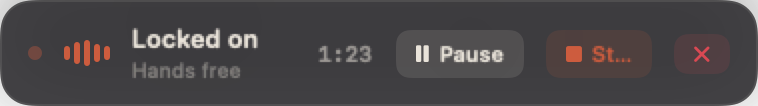
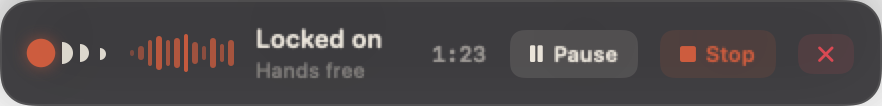
The mark is the recording indicator; the meter shows what the mic hears
The separate status dot is gone. While recording, the Ember disc of the
mark itself pulses as the recording light and the three crescents drift
gently side to side, air carrying the sound. Paused, everything settles
and dims.

The five decorative bars become a real meter: a rolling window of the
last twelve mic levels, newest at the right, with a power curve that
lifts quiet speech into view while true silence stays flat on the
floor. Hearing something and hearing nothing now look unmistakably
different, like the system's own mic test.

Button labels are incompressible; Stop no longer truncates.

diff --git a/Sources/HUD.swift b/Sources/HUD.swift
@@ -63,6 +63,78 @@ private struct Pill: View {
     }
 }
 
+/// The mark itself is the live indicator while recording: the Ember disc is
+/// the recording light, pulsing, and the crescents drift gently left and
+/// right like air carrying the sound. Paused, everything settles and dims.
+private struct AnimatedMark: View {
+    var paused: Bool
+
+    private struct HalfDisc: Shape {
+        func path(in rect: CGRect) -> Path {
+            var p = Path()
+            p.move(to: CGPoint(x: rect.minX, y: rect.minY))
+            p.addArc(center: CGPoint(x: rect.minX, y: rect.midY),
+                     radius: rect.height / 2,
+                     startAngle: .degrees(-90), endAngle: .degrees(90), clockwise: false)
+            p.closeSubpath()
+            return p
+        }
+    }
+
+    private func pulse(_ t: Double) -> CGFloat {
+        if paused { return 1 }
+        let wave: Double = 0.5 + 0.5 * sin(t * 2 * Double.pi / 1.2)
+        return CGFloat(1.0 + 0.10 * wave)
+    }
+    private func drift(_ t: Double, _ i: Int) -> CGFloat {
+        if paused { return 0 }
+        let period: Double = 1.5 + Double(i) * 0.25
+        let phase: Double = Double(i) * 1.9
+        return CGFloat(sin(t * 2 * Double.pi / period + phase) * 1.3)
+    }
+    private static let heights: [CGFloat] = [11, 8.5, 6]
+
+    var body: some View {
+        TimelineView(.animation(minimumInterval: 1.0 / 30.0, paused: paused)) { ctx in
+            let t: Double = ctx.date.timeIntervalSinceReferenceDate
+            HStack(alignment: .center, spacing: 3) {
+                Circle()
+                    .fill(T.accent)
+                    .frame(width: 13, height: 13)
+                    .scaleEffect(pulse(t))
+                    .shadow(color: T.accent.opacity(paused ? 0 : 0.5), radius: 3.5 * pulse(t))
+                ForEach(0..<3, id: \.self) { i in
+                    HalfDisc()
+                        .fill(T.sand.opacity(paused ? 0.4 : 0.92))
+                        .frame(width: Self.heights[i] / 2 + 1.5, height: Self.heights[i])
+                        .offset(x: drift(t, i))
+                }
+            }
+            .opacity(paused ? 0.75 : 1)
+        }
+        .frame(height: 16)
+        .accessibilityLabel(paused ? "Paused" : "Recording")
+    }
+}
+
+/// A real level meter: the rolling history of what the microphone heard,
+/// newest at the right. Silence reads flat; speech reads as movement.
+private struct LiveMeter: View {
+    let levels: [Float]
+    var dimmed: Bool = false
+    var body: some View {
+        HStack(alignment: .center, spacing: 2) {
+            ForEach(Array(levels.enumerated()), id: \.offset) { _, v in
+                Capsule(style: .continuous)
+                    .fill(T.accent.opacity(dimmed ? 0.22 : 0.35 + 0.65 * Double(min(1, v))))
+                    .frame(width: 2.5, height: max(2.5, CGFloat(min(1, v)) * 22))
+            }
+        }
+        .frame(height: 22)
+        .animation(.linear(duration: 0.08), value: levels)
+    }
+}
+
 /// Five bars that ride the mic level, with a gentle idle shimmer so it never looks dead.
 private struct Meter: View {
     let level: Float
@@ -119,7 +191,7 @@ private struct CtlButton: View {
         Button(action: action) {
             HStack(spacing: 4) {
                 Image(systemName: system).font(.system(size: 9.5, weight: .bold))
-                if !label.isEmpty { Text(label).font(T.ui(11, .semibold)) }
+                if !label.isEmpty { Text(label).font(T.ui(11, .semibold)).fixedSize() }
             }
             .foregroundColor(tone)
             .padding(.horizontal, 9).padding(.vertical, 5)
@@ -159,7 +231,7 @@ struct HUDView: View {
 
     var body: some View {
         HStack(spacing: 11) {
-            BrandMark()
+            if case .recording = state.phase {} else { BrandMark() }
             content
         }
         .padding(.horizontal, 14)
@@ -187,9 +259,8 @@ struct HUDView: View {
             EmptyView()
 
         case .recording(let locked, let paused):
-            Dot(color: paused ? T.warn : T.accent, pulse: !paused)
-            Meter(level: paused ? 0 : state.level)
-                .opacity(paused ? 0.3 : 1)
+            AnimatedMark(paused: paused)
+            LiveMeter(levels: state.levels, dimmed: paused)
             VStack(alignment: .leading, spacing: 2) {
                 Text(paused ? "Paused" : (locked ? "Locked on" : "Listening"))
                     .font(T.ui(13, .semibold)).foregroundColor(T.fg)

diff --git a/Sources/Core.swift b/Sources/Core.swift
@@ -94,6 +94,9 @@ enum Phase: Equatable {
 final class AppState: ObservableObject {
     @Published var phase: Phase = .idle
     @Published var level: Float = 0          // 0…1 smoothed mic level
+    /// Rolling window of recent mic levels, newest last. The meter renders this
+    /// directly, so silence is visibly flat and speech visibly is not.
+    @Published var levels: [Float] = Array(repeating: 0, count: 12)
     @Published var elapsed: TimeInterval = 0
     @Published var lang: Lang = Prefs.lang
     @Published var hudVisible: Bool = false
@@ -120,6 +123,11 @@ final class AppState: ObservableObject {
     var onPauseToggle: (() -> Void)?
     var onStop: (() -> Void)?
     var onCancel: (() -> Void)?
+
+    func pushLevel(_ v: Float) {
+        levels.removeFirst()
+        levels.append(v)
+    }
 
     func cycleLang() {
         lang = lang.next

diff --git a/Sources/Audio.swift b/Sources/Audio.swift
@@ -135,7 +135,9 @@ final class Recorder {
             for i in 0..<n { sum += ch[i] * ch[i] }
             let rms = n > 0 ? (sum / Float(n)).squareRoot() : 0
             if rms > peak { peak = rms }
-            let shaped = min(1, max(0, rms * 12))
+            // A power curve lifts quiet speech into the visible range while
+            // keeping true silence at the floor, like the system mic meter.
+            let shaped = min(1, pow(max(0, rms) * 16, 0.72))
             DispatchQueue.main.async { self.onLevel?(shaped) }
         }
 

diff --git a/Sources/App.swift b/Sources/App.swift
@@ -44,7 +44,8 @@ final class AppDelegate: NSObject, NSApplicationDelegate {
 
         recorder.onLevel = { [weak self] v in
             guard let self else { return }
-            self.state.level = self.state.level * 0.55 + v * 0.45      // smoothing
+            self.state.level = self.state.level * 0.55 + v * 0.45
+            self.state.pushLevel(v)
         }
 
         state.$phase
